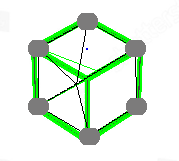
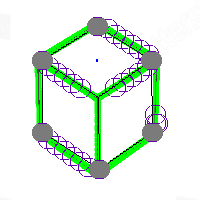
Added in the sides to the plane item class

Changed region(s): [[0.1397, 0.0932, 0.8659, 0.9006], [0.4469, 0.0621, 0.5307, 0.0932], [0.8101, 0.2795, 0.838, 0.3106]]

diff --git a/DepthByColor.py b/DepthByColor.py
@@ -42,7 +42,7 @@ class EdgeData:
 #outputlist: This is the MeshStructure of the simplified mesh
 def GenerateShapeEdges(radius:int, plane:PlaneItem, ColorToLookFor, CalculatedRadius = False):
     imageDataClass = ImageDataClass(radius, plane, ColorToLookFor)
-    SizedEdgePoints, MulipliersValues, imageShape = GetPointsFromImage(imageDataClass.image, pla
+    SizedEdgePoints, MulipliersValues, imageShape = GetPointsFromImage(imageDataClass.image, plane)
     imageDataClass.__setattr__('ImageShape', imageShape)
     imageDataClass.__setattr__('image', cv2.resize(imageDataClass.image, (imageDataClass.ImageShape[1], imageDataClass.ImageShape[0])))
 
@@ -53,15 +53,16 @@ def GenerateShapeEdges(radius:int, plane:PlaneItem, ColorToLookFor, CalculatedRa
         EditPicture((0,0,0), points, imageDataClass.image)
         SaveImage(imageDataClass.image, plane.ImagePlaneFilePath, "View0")
 
-    FinishedDict = {key: 0 for key in FinishedList}
 
-    AdjacentPoint:AdjacentEdge = CheckForInsideLines(imageDataClass, FinishedDict)
-    for adjacentLines in AdjacentPoint.AdjacentLine: 
-        for points in AdjacentPoint.AdjacentLine[adjacentLines]: #adds on the extras lines 
-            EditPicture(imageDataClass.Color, points, imageDataClass.image)
-            SaveImage(imageDataClass.image, imageDataClass.plane.ImagePlaneFilePath, "View0")
+    # FinishedDict = {key: 0 for key in EdgeDataList}
+
+    # AdjacentPoint:AdjacentEdge = CheckForInsideLines(imageDataClass, FinishedDict)
+    # for adjacentLines in AdjacentPoint.AdjacentLine: 
+    #     for points in AdjacentPoint.AdjacentLine[adjacentLines]: #adds on the extras lines 
+    #         EditPicture(imageDataClass.Color, points, imageDataClass.image)
+    #         SaveImage(imageDataClass.image, imageDataClass.plane.ImagePlaneFilePath, "View0")
  
-    EdgeDataList = CreateEdgeData(SizedEdgePoints, imageDataClass)
+    EdgeDataList = CreateEdgeData(SizedEdgePoints, imageDataClass)    
     EdgeDataList = CalculateLocationsOfAvaliblePixelsAroundPoint(EdgeDataList, imageDataClass)
     outputlist = CycleThroughEdgePointsForColor(EdgeDataList, imageDataClass)
     return outputlist

diff --git a/image_processing.py b/image_processing.py
@@ -11,6 +11,12 @@ class PlaneItem:
     PlaneRotation = bpy.props.IntProperty(name="Rotation", default=0)
     ImagePlaneName: str
     ImagePlaneFilePath: str
+    top = (0,90,0)
+    bottom = (0,270,0)
+    front = (0,0,0)
+    sideR = (90,0,0)
+    back = (180,0,0)
+    sideL = (270,0,0)
     
     def __init__(self, filepath ,rotation):
         self.PlaneFilepath = filepath
